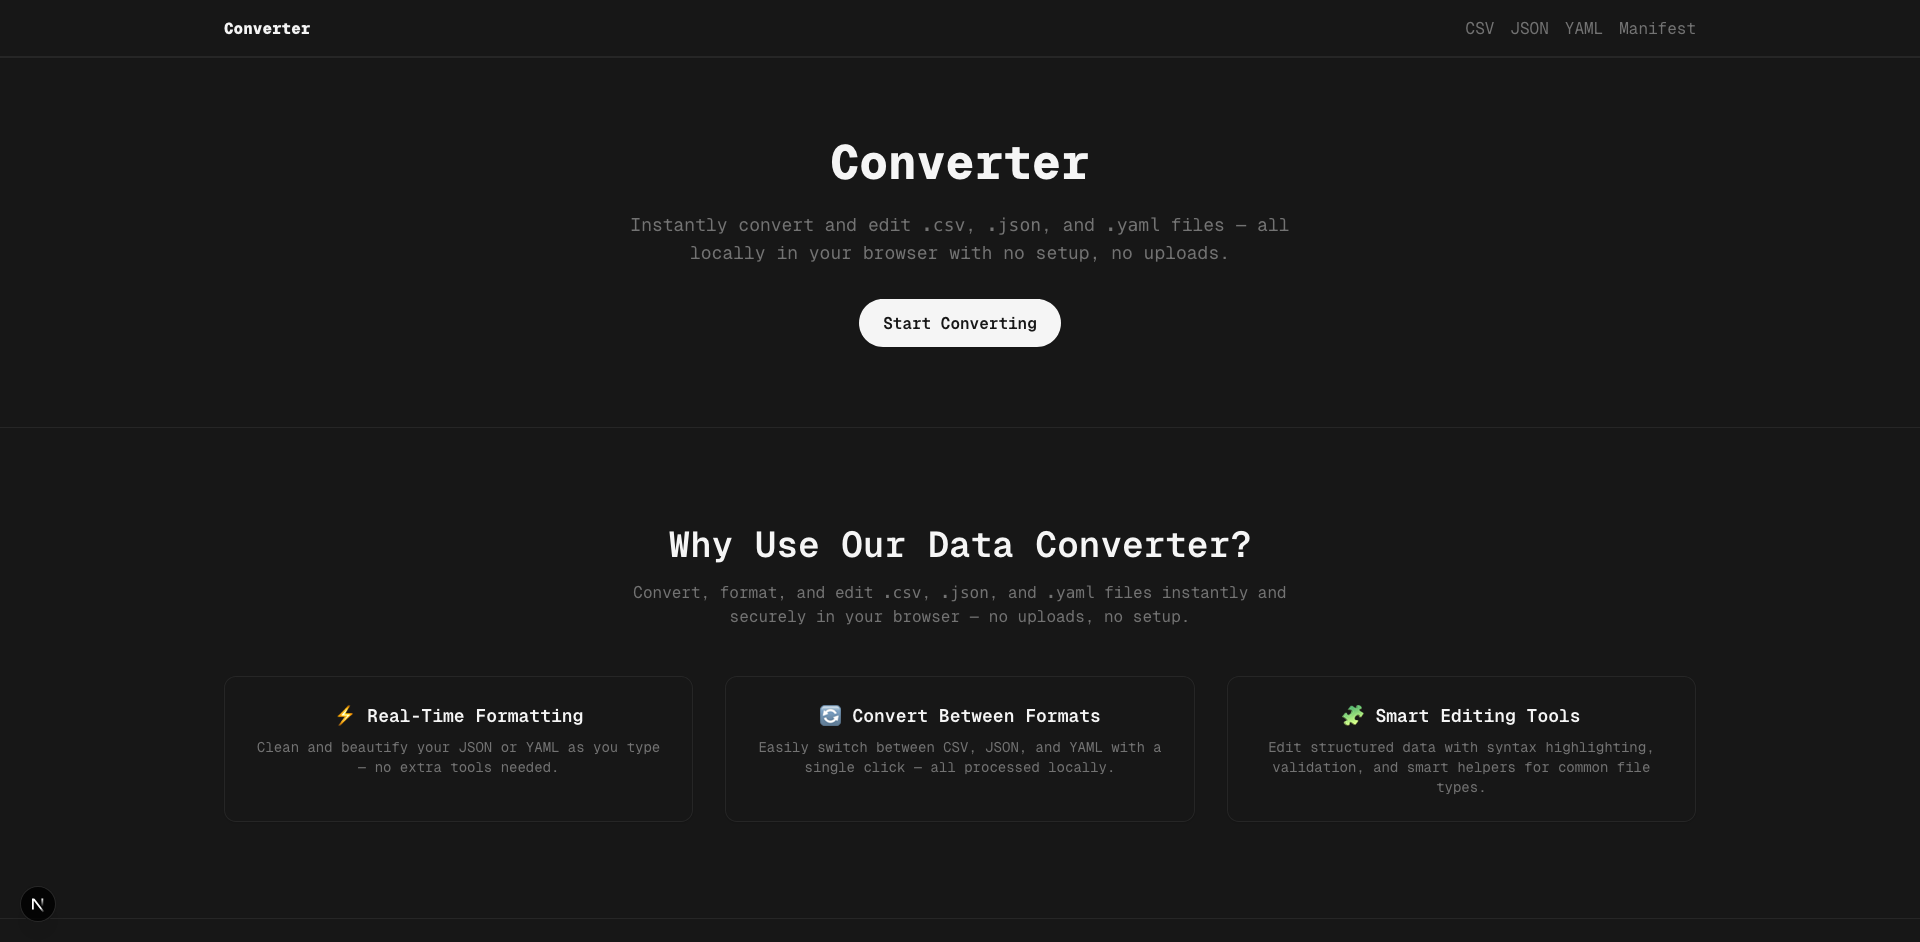
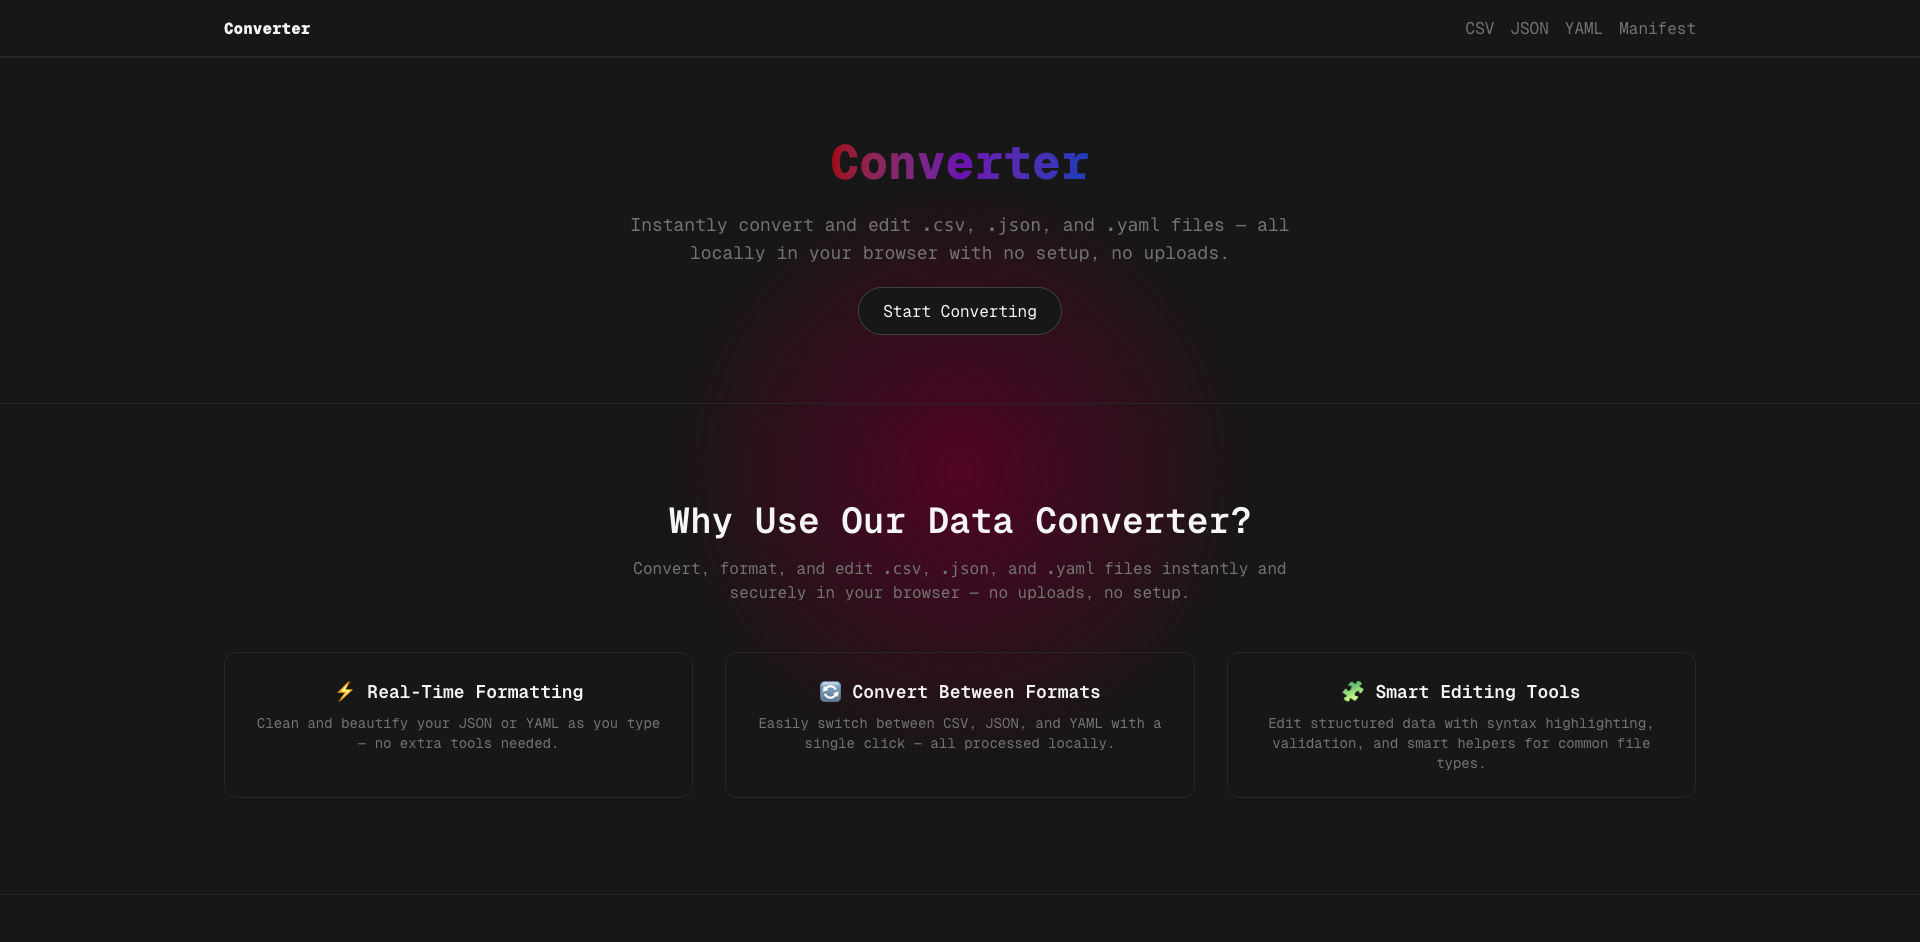
update features

diff --git a/docs/index.html b/docs/index.html
@@ -18,8 +18,8 @@
       type="font/woff2"
       crossorigin="anonymous"
       data-next-font="size-adjust" />
-    <link rel="preload" href="/converter/_next/static/css/67db49a90b3d1d89.css" as="style" />
-    <link rel="stylesheet" href="/converter/_next/static/css/67db49a90b3d1d89.css" data-n-g="" />
+    <link rel="preload" href="/converter/_next/static/css/a7074c309d5718d8.css" as="style" />
+    <link rel="stylesheet" href="/converter/_next/static/css/a7074c309d5718d8.css" data-n-g="" />
     <noscript data-n-css=""></noscript>
     <script defer="" nomodule="" src="/converter/_next/static/chunks/polyfills-42372ed130431b0a.js"></script>
     <script src="/converter/_next/static/chunks/webpack-d97319de9ae194ac.js" defer=""></script>
@@ -27,9 +27,9 @@
     <script src="/converter/_next/static/chunks/main-6d4e44b1b995608b.js" defer=""></script>
     <script src="/converter/_next/static/chunks/pages/_app-5afacb19a1f9231f.js" defer=""></script>
     <script src="/converter/_next/static/chunks/864-4dc0078801029729.js" defer=""></script>
-    <script src="/converter/_next/static/chunks/pages/index-c8ecf0dd7e5542d8.js" defer=""></script>
-    <script src="/converter/_next/static/csTzdNBKkU6HwJLBDvVrK/_buildManifest.js" defer=""></script>
-    <script src="/converter/_next/static/csTzdNBKkU6HwJLBDvVrK/_ssgManifest.js" defer=""></script>
+    <script src="/converter/_next/static/chunks/pages/index-8198e1a2cac5f5ca.js" defer=""></script>
+    <script src="/converter/_next/static/MrzFWjBZsLcRD8Z4kK84O/_buildManifest.js" defer=""></script>
+    <script src="/converter/_next/static/MrzFWjBZsLcRD8Z4kK84O/_ssgManifest.js" defer=""></script>
   </head>
   <body class="antialiased">
     <div id="__next">
@@ -82,19 +82,19 @@
                 and securely in your browser — no uploads, no setup.
               </p>
               <div class="mt-12 grid grid-cols-1 gap-8 sm:grid-cols-2 lg:grid-cols-3">
-                <div class="rounded-xl border border-neutral-800 p-6 shadow-sm">
+                <div class="rounded-xl border border-neutral-700 bg-neutral-900/40 p-6 shadow-sm">
                   <h4 class="text-lg font-semibold">⚡ Real-Time Formatting</h4>
                   <p class="mt-2 text-sm text-neutral-500">
                     Clean and beautify your JSON or YAML as you type — no extra tools needed.
                   </p>
                 </div>
-                <div class="rounded-xl border border-neutral-800 p-6 shadow-sm">
+                <div class="rounded-xl border border-neutral-700 bg-neutral-900/40 p-6 shadow-sm">
                   <h4 class="text-lg font-semibold">🔄 Convert Between Formats</h4>
                   <p class="mt-2 text-sm text-neutral-500">
                     Easily switch between CSV, JSON, and YAML with a single click — all processed locally.
                   </p>
                 </div>
-                <div class="rounded-xl border border-neutral-800 p-6 shadow-sm">
+                <div class="rounded-xl border border-neutral-700 bg-neutral-900/40 p-6 shadow-sm">
                   <h4 class="text-lg font-semibold">🧩 Smart Editing Tools</h4>
                   <p class="mt-2 text-sm text-neutral-500">
                     Edit structured data with syntax highlighting, validation, and smart helpers for common file types.
@@ -148,7 +148,7 @@
         "props": { "pageProps": {} },
         "page": "/",
         "query": {},
-        "buildId": "csTzdNBKkU6HwJLBDvVrK",
+        "buildId": "MrzFWjBZsLcRD8Z4kK84O",
         "assetPrefix": "/converter",
         "nextExport": true,
         "autoExport": true,

diff --git a/docs/csv/index.html b/docs/csv/index.html
@@ -18,8 +18,8 @@
       type="font/woff2"
       crossorigin="anonymous"
       data-next-font="size-adjust" />
-    <link rel="preload" href="/converter/_next/static/css/67db49a90b3d1d89.css" as="style" />
-    <link rel="stylesheet" href="/converter/_next/static/css/67db49a90b3d1d89.css" data-n-g="" />
+    <link rel="preload" href="/converter/_next/static/css/a7074c309d5718d8.css" as="style" />
+    <link rel="stylesheet" href="/converter/_next/static/css/a7074c309d5718d8.css" data-n-g="" />
     <noscript data-n-css=""></noscript>
     <script defer="" nomodule="" src="/converter/_next/static/chunks/polyfills-42372ed130431b0a.js"></script>
     <script src="/converter/_next/static/chunks/webpack-d97319de9ae194ac.js" defer=""></script>
@@ -28,8 +28,8 @@
     <script src="/converter/_next/static/chunks/pages/_app-5afacb19a1f9231f.js" defer=""></script>
     <script src="/converter/_next/static/chunks/864-4dc0078801029729.js" defer=""></script>
     <script src="/converter/_next/static/chunks/pages/csv-2b12e46b1954d2d4.js" defer=""></script>
-    <script src="/converter/_next/static/csTzdNBKkU6HwJLBDvVrK/_buildManifest.js" defer=""></script>
-    <script src="/converter/_next/static/csTzdNBKkU6HwJLBDvVrK/_ssgManifest.js" defer=""></script>
+    <script src="/converter/_next/static/MrzFWjBZsLcRD8Z4kK84O/_buildManifest.js" defer=""></script>
+    <script src="/converter/_next/static/MrzFWjBZsLcRD8Z4kK84O/_ssgManifest.js" defer=""></script>
   </head>
   <body class="antialiased">
     <div id="__next">
@@ -97,7 +97,7 @@ INSERT INTO schema.table (&quot;header1&quot;, &quot;header2&quot;, &quot;header
         "props": { "pageProps": {} },
         "page": "/csv",
         "query": {},
-        "buildId": "csTzdNBKkU6HwJLBDvVrK",
+        "buildId": "MrzFWjBZsLcRD8Z4kK84O",
         "assetPrefix": "/converter",
         "nextExport": true,
         "autoExport": true,

diff --git a/docs/yaml/index.html b/docs/yaml/index.html
@@ -18,8 +18,8 @@
       type="font/woff2"
       crossorigin="anonymous"
       data-next-font="size-adjust" />
-    <link rel="preload" href="/converter/_next/static/css/67db49a90b3d1d89.css" as="style" />
-    <link rel="stylesheet" href="/converter/_next/static/css/67db49a90b3d1d89.css" data-n-g="" />
+    <link rel="preload" href="/converter/_next/static/css/a7074c309d5718d8.css" as="style" />
+    <link rel="stylesheet" href="/converter/_next/static/css/a7074c309d5718d8.css" data-n-g="" />
     <noscript data-n-css=""></noscript>
     <script defer="" nomodule="" src="/converter/_next/static/chunks/polyfills-42372ed130431b0a.js"></script>
     <script src="/converter/_next/static/chunks/webpack-d97319de9ae194ac.js" defer=""></script>
@@ -29,8 +29,8 @@
     <script src="/converter/_next/static/chunks/864-4dc0078801029729.js" defer=""></script>
     <script src="/converter/_next/static/chunks/0-43e27167f70391b7.js" defer=""></script>
     <script src="/converter/_next/static/chunks/pages/yaml-25c985e01ec89037.js" defer=""></script>
-    <script src="/converter/_next/static/csTzdNBKkU6HwJLBDvVrK/_buildManifest.js" defer=""></script>
-    <script src="/converter/_next/static/csTzdNBKkU6HwJLBDvVrK/_ssgManifest.js" defer=""></script>
+    <script src="/converter/_next/static/MrzFWjBZsLcRD8Z4kK84O/_buildManifest.js" defer=""></script>
+    <script src="/converter/_next/static/MrzFWjBZsLcRD8Z4kK84O/_ssgManifest.js" defer=""></script>
   </head>
   <body class="antialiased">
     <div id="__next">
@@ -375,7 +375,7 @@ Related Projects:
         "props": { "pageProps": {} },
         "page": "/yaml",
         "query": {},
-        "buildId": "csTzdNBKkU6HwJLBDvVrK",
+        "buildId": "MrzFWjBZsLcRD8Z4kK84O",
         "assetPrefix": "/converter",
         "nextExport": true,
         "autoExport": true,

diff --git a/docs/manifest/index.html b/docs/manifest/index.html
@@ -18,8 +18,8 @@
       type="font/woff2"
       crossorigin="anonymous"
       data-next-font="size-adjust" />
-    <link rel="preload" href="/converter/_next/static/css/67db49a90b3d1d89.css" as="style" />
-    <link rel="stylesheet" href="/converter/_next/static/css/67db49a90b3d1d89.css" data-n-g="" />
+    <link rel="preload" href="/converter/_next/static/css/a7074c309d5718d8.css" as="style" />
+    <link rel="stylesheet" href="/converter/_next/static/css/a7074c309d5718d8.css" data-n-g="" />
     <noscript data-n-css=""></noscript>
     <script defer="" nomodule="" src="/converter/_next/static/chunks/polyfills-42372ed130431b0a.js"></script>
     <script src="/converter/_next/static/chunks/webpack-d97319de9ae194ac.js" defer=""></script>
@@ -29,8 +29,8 @@
     <script src="/converter/_next/static/chunks/864-4dc0078801029729.js" defer=""></script>
     <script src="/converter/_next/static/chunks/0-43e27167f70391b7.js" defer=""></script>
     <script src="/converter/_next/static/chunks/pages/manifest-f4e82fb9277da1e0.js" defer=""></script>
-    <script src="/converter/_next/static/csTzdNBKkU6HwJLBDvVrK/_buildManifest.js" defer=""></script>
-    <script src="/converter/_next/static/csTzdNBKkU6HwJLBDvVrK/_ssgManifest.js" defer=""></script>
+    <script src="/converter/_next/static/MrzFWjBZsLcRD8Z4kK84O/_buildManifest.js" defer=""></script>
+    <script src="/converter/_next/static/MrzFWjBZsLcRD8Z4kK84O/_ssgManifest.js" defer=""></script>
   </head>
   <body class="antialiased">
     <div id="__next">
@@ -153,7 +153,7 @@
         "props": { "pageProps": {} },
         "page": "/manifest",
         "query": {},
-        "buildId": "csTzdNBKkU6HwJLBDvVrK",
+        "buildId": "MrzFWjBZsLcRD8Z4kK84O",
         "assetPrefix": "/converter",
         "nextExport": true,
         "autoExport": true,

diff --git a/docs/404.html b/docs/404.html
@@ -18,8 +18,8 @@
       type="font/woff2"
       crossorigin="anonymous"
       data-next-font="size-adjust" />
-    <link rel="preload" href="/converter/_next/static/css/67db49a90b3d1d89.css" as="style" />
-    <link rel="stylesheet" href="/converter/_next/static/css/67db49a90b3d1d89.css" data-n-g="" />
+    <link rel="preload" href="/converter/_next/static/css/a7074c309d5718d8.css" as="style" />
+    <link rel="stylesheet" href="/converter/_next/static/css/a7074c309d5718d8.css" data-n-g="" />
     <noscript data-n-css=""></noscript>
     <script defer="" nomodule="" src="/converter/_next/static/chunks/polyfills-42372ed130431b0a.js"></script>
     <script src="/converter/_next/static/chunks/webpack-d97319de9ae194ac.js" defer=""></script>
@@ -28,8 +28,8 @@
     <script src="/converter/_next/static/chunks/pages/_app-5afacb19a1f9231f.js" defer=""></script>
     <script src="/converter/_next/static/chunks/864-4dc0078801029729.js" defer=""></script>
     <script src="/converter/_next/static/chunks/pages/404-705a1effb54de391.js" defer=""></script>
-    <script src="/converter/_next/static/csTzdNBKkU6HwJLBDvVrK/_buildManifest.js" defer=""></script>
-    <script src="/converter/_next/static/csTzdNBKkU6HwJLBDvVrK/_ssgManifest.js" defer=""></script>
+    <script src="/converter/_next/static/MrzFWjBZsLcRD8Z4kK84O/_buildManifest.js" defer=""></script>
+    <script src="/converter/_next/static/MrzFWjBZsLcRD8Z4kK84O/_ssgManifest.js" defer=""></script>
   </head>
   <body class="antialiased">
     <div id="__next">
@@ -52,7 +52,7 @@
         "props": { "pageProps": {} },
         "page": "/404",
         "query": {},
-        "buildId": "csTzdNBKkU6HwJLBDvVrK",
+        "buildId": "MrzFWjBZsLcRD8Z4kK84O",
         "assetPrefix": "/converter",
         "nextExport": true,
         "autoExport": true,

diff --git a/docs/404/index.html b/docs/404/index.html
@@ -18,8 +18,8 @@
       type="font/woff2"
       crossorigin="anonymous"
       data-next-font="size-adjust" />
-    <link rel="preload" href="/converter/_next/static/css/67db49a90b3d1d89.css" as="style" />
-    <link rel="stylesheet" href="/converter/_next/static/css/67db49a90b3d1d89.css" data-n-g="" />
+    <link rel="preload" href="/converter/_next/static/css/a7074c309d5718d8.css" as="style" />
+    <link rel="stylesheet" href="/converter/_next/static/css/a7074c309d5718d8.css" data-n-g="" />
     <noscript data-n-css=""></noscript>
     <script defer="" nomodule="" src="/converter/_next/static/chunks/polyfills-42372ed130431b0a.js"></script>
     <script src="/converter/_next/static/chunks/webpack-d97319de9ae194ac.js" defer=""></script>
@@ -28,8 +28,8 @@
     <script src="/converter/_next/static/chunks/pages/_app-5afacb19a1f9231f.js" defer=""></script>
     <script src="/converter/_next/static/chunks/864-4dc0078801029729.js" defer=""></script>
     <script src="/converter/_next/static/chunks/pages/404-705a1effb54de391.js" defer=""></script>
-    <script src="/converter/_next/static/csTzdNBKkU6HwJLBDvVrK/_buildManifest.js" defer=""></script>
-    <script src="/converter/_next/static/csTzdNBKkU6HwJLBDvVrK/_ssgManifest.js" defer=""></script>
+    <script src="/converter/_next/static/MrzFWjBZsLcRD8Z4kK84O/_buildManifest.js" defer=""></script>
+    <script src="/converter/_next/static/MrzFWjBZsLcRD8Z4kK84O/_ssgManifest.js" defer=""></script>
   </head>
   <body class="antialiased">
     <div id="__next">
@@ -52,7 +52,7 @@
         "props": { "pageProps": {} },
         "page": "/404",
         "query": {},
-        "buildId": "csTzdNBKkU6HwJLBDvVrK",
+        "buildId": "MrzFWjBZsLcRD8Z4kK84O",
         "assetPrefix": "/converter",
         "nextExport": true,
         "autoExport": true,

diff --git a/docs/500/index.html b/docs/500/index.html
@@ -18,8 +18,8 @@
       type="font/woff2"
       crossorigin="anonymous"
       data-next-font="size-adjust" />
-    <link rel="preload" href="/converter/_next/static/css/67db49a90b3d1d89.css" as="style" />
-    <link rel="stylesheet" href="/converter/_next/static/css/67db49a90b3d1d89.css" data-n-g="" />
+    <link rel="preload" href="/converter/_next/static/css/a7074c309d5718d8.css" as="style" />
+    <link rel="stylesheet" href="/converter/_next/static/css/a7074c309d5718d8.css" data-n-g="" />
     <noscript data-n-css=""></noscript>
     <script defer="" nomodule="" src="/converter/_next/static/chunks/polyfills-42372ed130431b0a.js"></script>
     <script src="/converter/_next/static/chunks/webpack-d97319de9ae194ac.js" defer=""></script>
@@ -28,8 +28,8 @@
     <script src="/converter/_next/static/chunks/pages/_app-5afacb19a1f9231f.js" defer=""></script>
     <script src="/converter/_next/static/chunks/864-4dc0078801029729.js" defer=""></script>
     <script src="/converter/_next/static/chunks/pages/500-d1f36c07e54f046f.js" defer=""></script>
-    <script src="/converter/_next/static/csTzdNBKkU6HwJLBDvVrK/_buildManifest.js" defer=""></script>
-    <script src="/converter/_next/static/csTzdNBKkU6HwJLBDvVrK/_ssgManifest.js" defer=""></script>
+    <script src="/converter/_next/static/MrzFWjBZsLcRD8Z4kK84O/_buildManifest.js" defer=""></script>
+    <script src="/converter/_next/static/MrzFWjBZsLcRD8Z4kK84O/_ssgManifest.js" defer=""></script>
   </head>
   <body class="antialiased">
     <div id="__next">
@@ -52,7 +52,7 @@
         "props": { "pageProps": {} },
         "page": "/500",
         "query": {},
-        "buildId": "csTzdNBKkU6HwJLBDvVrK",
+        "buildId": "MrzFWjBZsLcRD8Z4kK84O",
         "assetPrefix": "/converter",
         "nextExport": true,
         "autoExport": true,

diff --git a/docs/json/index.html b/docs/json/index.html
@@ -18,8 +18,8 @@
       type="font/woff2"
       crossorigin="anonymous"
       data-next-font="size-adjust" />
-    <link rel="preload" href="/converter/_next/static/css/67db49a90b3d1d89.css" as="style" />
-    <link rel="stylesheet" href="/converter/_next/static/css/67db49a90b3d1d89.css" data-n-g="" />
+    <link rel="preload" href="/converter/_next/static/css/a7074c309d5718d8.css" as="style" />
+    <link rel="stylesheet" href="/converter/_next/static/css/a7074c309d5718d8.css" data-n-g="" />
     <noscript data-n-css=""></noscript>
     <script defer="" nomodule="" src="/converter/_next/static/chunks/polyfills-42372ed130431b0a.js"></script>
     <script src="/converter/_next/static/chunks/webpack-d97319de9ae194ac.js" defer=""></script>
@@ -29,8 +29,8 @@
     <script src="/converter/_next/static/chunks/864-4dc0078801029729.js" defer=""></script>
     <script src="/converter/_next/static/chunks/0-43e27167f70391b7.js" defer=""></script>
     <script src="/converter/_next/static/chunks/pages/json-8d82f1c46cb1eea4.js" defer=""></script>
-    <script src="/converter/_next/static/csTzdNBKkU6HwJLBDvVrK/_buildManifest.js" defer=""></script>
-    <script src="/converter/_next/static/csTzdNBKkU6HwJLBDvVrK/_ssgManifest.js" defer=""></script>
+    <script src="/converter/_next/static/MrzFWjBZsLcRD8Z4kK84O/_buildManifest.js" defer=""></script>
+    <script src="/converter/_next/static/MrzFWjBZsLcRD8Z4kK84O/_ssgManifest.js" defer=""></script>
   </head>
   <body class="antialiased">
     <div id="__next">
@@ -140,7 +140,7 @@
         "props": { "pageProps": {} },
         "page": "/json",
         "query": {},
-        "buildId": "csTzdNBKkU6HwJLBDvVrK",
+        "buildId": "MrzFWjBZsLcRD8Z4kK84O",
         "assetPrefix": "/converter",
         "nextExport": true,
         "autoExport": true,

diff --git a/src/components/Features.tsx b/src/components/Features.tsx
@@ -10,19 +10,19 @@ export const Features: FC = () => {
           securely in your browser — no uploads, no setup.
         </p>
         <div className="mt-12 grid grid-cols-1 gap-8 sm:grid-cols-2 lg:grid-cols-3">
-          <div className="rounded-xl border border-neutral-800 p-6 shadow-sm">
+          <div className="rounded-xl border border-neutral-700 bg-neutral-900/40 p-6 shadow-sm">
             <h4 className="text-lg font-semibold">⚡ Real-Time Formatting</h4>
             <p className="mt-2 text-sm text-neutral-500">
               Clean and beautify your JSON or YAML as you type — no extra tools needed.
             </p>
           </div>
-          <div className="rounded-xl border border-neutral-800 p-6 shadow-sm">
+          <div className="rounded-xl border border-neutral-700 bg-neutral-900/40 p-6 shadow-sm">
             <h4 className="text-lg font-semibold">🔄 Convert Between Formats</h4>
             <p className="mt-2 text-sm text-neutral-500">
               Easily switch between CSV, JSON, and YAML with a single click — all processed locally.
             </p>
           </div>
-          <div className="rounded-xl border border-neutral-800 p-6 shadow-sm">
+          <div className="rounded-xl border border-neutral-700 bg-neutral-900/40 p-6 shadow-sm">
             <h4 className="text-lg font-semibold">🧩 Smart Editing Tools</h4>
             <p className="mt-2 text-sm text-neutral-500">
               Edit structured data with syntax highlighting, validation, and smart helpers for common file types.

diff --git a/docs/_next/static/chunks/pages/index-8198e1a2cac5f5ca.js b/docs/_next/static/chunks/pages/index-8198e1a2cac5f5ca.js
@@ -66,7 +66,7 @@
                   className: 'mt-12 grid grid-cols-1 gap-8 sm:grid-cols-2 lg:grid-cols-3',
                   children: [
                     (0, r.jsxs)('div', {
-                      className: 'rounded-xl border border-neutral-800 p-6 shadow-sm',
+                      className: 'rounded-xl border border-neutral-700 bg-neutral-900/40 p-6 shadow-sm',
                       children: [
                         (0, r.jsx)('h4', { className: 'text-lg font-semibold', children: '⚡ Real-Time Formatting' }),
                         (0, r.jsx)('p', {
@@ -76,7 +76,7 @@
                       ],
                     }),
                     (0, r.jsxs)('div', {
-                      className: 'rounded-xl border border-neutral-800 p-6 shadow-sm',
+                      className: 'rounded-xl border border-neutral-700 bg-neutral-900/40 p-6 shadow-sm',
                       children: [
                         (0, r.jsx)('h4', {
                           className: 'text-lg font-semibold',
@@ -90,7 +90,7 @@
                       ],
                     }),
                     (0, r.jsxs)('div', {
-                      className: 'rounded-xl border border-neutral-800 p-6 shadow-sm',
+                      className: 'rounded-xl border border-neutral-700 bg-neutral-900/40 p-6 shadow-sm',
                       children: [
                         (0, r.jsx)('h4', {
                           className: 'text-lg font-semibold',

diff --git a/docs/_next/static/MrzFWjBZsLcRD8Z4kK84O/_buildManifest.js b/docs/_next/static/MrzFWjBZsLcRD8Z4kK84O/_buildManifest.js
@@ -3,7 +3,7 @@
     __rewrites: { afterFiles: [], beforeFiles: [], fallback: [] },
     __routerFilterStatic: { numItems: 0, errorRate: 1e-4, numBits: 0, numHashes: null, bitArray: [] },
     __routerFilterDynamic: { numItems: e, errorRate: 1e-4, numBits: e, numHashes: null, bitArray: [] },
-    '/': [s, 'static/chunks/pages/index-c8ecf0dd7e5542d8.js'],
+    '/': [s, 'static/chunks/pages/index-8198e1a2cac5f5ca.js'],
     '/404': [s, 'static/chunks/pages/404-705a1effb54de391.js'],
     '/500': [s, 'static/chunks/pages/500-d1f36c07e54f046f.js'],
     '/_error': ['static/chunks/pages/_error-f8adbdad679f7b55.js'],

diff --git a/docs/_next/static/css/a7074c309d5718d8.css b/docs/_next/static/css/a7074c309d5718d8.css
@@ -546,6 +546,14 @@
   .bg-neutral-900 {
     background-color: var(--color-neutral-900);
   }
+  .bg-neutral-900\/40 {
+    background-color: #17171766;
+  }
+  @supports (color: color-mix(in lab, red, red)) {
+    .bg-neutral-900\/40 {
+      background-color: color-mix(in oklab, var(--color-neutral-900) 40%, transparent);
+    }
+  }
   .bg-gradient-to-r {
     --tw-gradient-position: to right in oklab;
     background-image: linear-gradient(var(--tw-gradient-stops));
